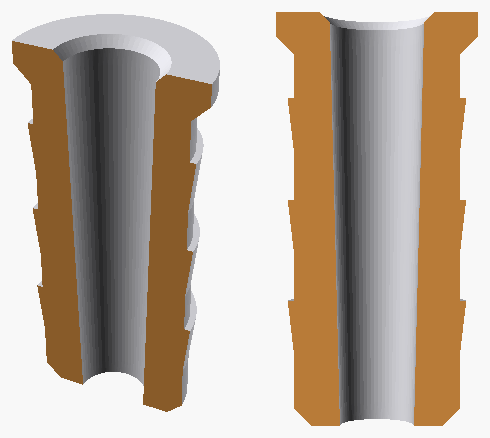
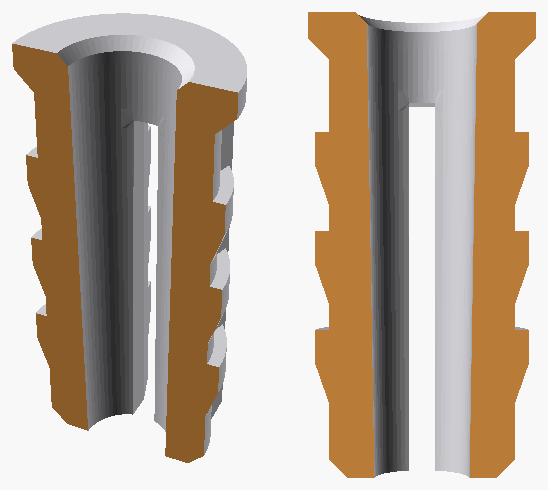
Описать состав проекта таблицей инструментов
Вводный абзац о том, что forgeAi3d — сборка чужих проектов, связанных
в один цикл для агента. Вместо абзаца «Стек» — таблица со всеми
инструментами, ссылками на GitHub и ролью каждого. Текст про дюбель
и его разрез приведены к переработанной модели.

diff --git a/README.ru.md b/README.ru.md
@@ -4,6 +4,12 @@
 
 Воркспейс для моделирования деталей под 3D-печать **вместе с AI-агентом**.
 
+Своего CAD здесь нет. forgeAi3d — сборка чужих проектов: CAD-ядро, справочник крепежа,
+анализатор печатопригодности, рендерер, библиотеки для работы с мешами. Они связаны
+в один цикл и обёрнуты в CLI так, чтобы агент вызывал их сам, читал вывод и делал по
+нему следующий шаг: обмерить деталь, посмотреть на превью, поправить константу. Знание
+о том, что и когда вызывать, лежит в скилле — полный состав в таблице ниже.
+
 Идея простая: модель — это Python-файл, а не проект в GUI. Значит агент видит её целиком,
 правит точечно и версионирует. Ты говоришь, что нужно, — получаешь STL, превью и отчёт
 о печатопригодности. Печатаешь, говоришь что не так — правится одна константа.
@@ -16,12 +22,26 @@
 
 ![контактный лист калибровочной гребёнки](docs/fit_test.png)
 
-Стек: [build123d](https://github.com/gumyr/build123d) (B-Rep поверх OCCT — настоящие фаски,
-скругления и STEP), [augura](https://github.com/pzfreo/augura) (печатопригодность по точной
-геометрии, а не по треугольникам), [bd_warehouse](https://github.com/gumyr/bd_warehouse)
-(винты, гайки, подшипники, резьбы по стандарту), [trimesh](https://github.com/mikedh/trimesh)
-(анализ и правка чужих мешей), [OpenSCAD](https://openscad.org) в headless-режиме
-(рендер превью, чтобы агент видел результат своими глазами).
+## Из чего собрано
+
+Свой код здесь тонкий: профиль принтера и справочник филаментов (`forge/`), четыре
+CLI-обёртки (`tools/`) и скилл. Всю тяжёлую работу делают вот эти проекты.
+
+| Инструмент | Зачем здесь |
+|---|---|
+| [build123d](https://github.com/gumyr/build123d) | CAD-ядро. Деталь описывается кодом на Python, геометрия — B-Rep поверх OpenCascade: настоящие фаски, скругления и экспорт в STEP |
+| [OCP](https://github.com/CadQuery/OCP) | Python-биндинги [OpenCascade](https://github.com/Open-Cascade-SAS/OCCT), ядро под build123d. `measure.py` обращается к нему напрямую — читает типы поверхностей и по ним отличает отверстие от штыря и скругления |
+| [bd_warehouse](https://github.com/gumyr/bd_warehouse) | Готовый крепёж к build123d: винты, гайки, подшипники, резьбы по стандарту. Чтобы размеры M3 не сочинялись по памяти |
+| [augura](https://github.com/pzfreo/augura) | Проверка печатопригодности по STEP — свесы, мосты, толщина стенок, опрокидывание, подбор позы. По точным граням тела, а не по треугольникам |
+| [trimesh](https://github.com/mikedh/trimesh) | Всё, что про меши: загрузка STL, герметичность, нормали, лучевые запросы (толщина, внутренние пустоты), правка чужих моделей |
+| [manifold3d](https://github.com/elalish/manifold) | Бэкенд булевых операций для trimesh — без него вычитания и объединения на мешах разваливаются |
+| [rtree](https://github.com/Toblerity/rtree) | Пространственный индекс, на нём держатся быстрые лучевые запросы trimesh |
+| [numpy](https://github.com/numpy/numpy) | Массивы вершин и нормалей, вся геометрическая арифметика в проверках и подсветке свесов |
+| [networkx](https://github.com/networkx/networkx) | Граф связности треугольников в `solidify.py`: так находятся внутренние оболочки и кромки, которые потом заклеиваются |
+| [Pillow](https://github.com/python-pillow/Pillow) | Обрезка полей у рендеров и сборка видов в один контактный лист |
+| [OpenSCAD](https://github.com/openscad/openscad) | Headless-рендер PNG и булев разрез детали. Единственная внешняя программа — остальное пакеты Python |
+| [uv](https://github.com/astral-sh/uv) | Зависимости и запуск: `uv run` вместо ручных venv |
+| [Claude Code](https://github.com/anthropics/claude-code) | Собственно агент. Скилл из `skill/` учит его этому циклу — что вызвать, как прочитать вывод и что править дальше |
 
 ## Зачем, если есть GUI-редакторы
 
@@ -81,9 +101,17 @@ uv run tools/check.py prints/fit_test_pla/fit_test_pla.stl --material PLA   # п
 
 ![дюбель в разрезе](docs/dowel.png)
 
+Дальше начался тот самый цикл. Первая версия в отверстии провернулась: кольцевые зубцы
+держат от выдёргивания, но против кручения осесимметричному телу цепляться нечем — шуруп
+таскал дюбель за собой вместо того, чтобы вкручиваться. Из одной фразы «прокручивается»
+получилась переделка: сквозная прорезь вдоль тела (половинки расходятся и распирают
+дюбель в отверстии), четыре продольных ребра против проворота и пилотное отверстие шире
+на 0.3 мм — чтобы шуруп нарезал резьбу, а не срывал деталь с места.
+
 Модель — `models/dowel_5mm.py`, и всё в ней крутится константами: `BARB_OVER` — насколько
-зубцы выступают за тело, `PILOT_TOP` и `PILOT_BOT` — внутренний конус, по которому шуруп
-идёт всё туже, `SLOT` — включить сквозную прорезь. Напечатан на A1 mini.
+зубцы выступают за тело, `RIB_COUNT` и `RIB_OVER` — число и вылет рёбер, `PILOT_TOP`
+и `PILOT_BOT` — внутренний конус, по которому шуруп идёт всё туже, `SLOT_W` и `SLOT_ANG` —
+ширина и раскрытие прорези. Печатается стоя на A1 mini.
 
 ### Клинок из игрушки — заполнена чужая модель
 

diff --git a/README.md b/README.md
@@ -4,6 +4,13 @@
 
 A workspace for designing 3D-printable parts **together with an AI agent**.
 
+I did not write a CAD engine. forgeAi3d is an assembly of other people's
+projects — a CAD kernel, a fastener library, a printability analyser, a renderer, mesh
+tooling — wired into a single loop and wrapped in CLIs so the agent can call them itself,
+read the output and take the next step from it: measure the part, look at the preview,
+change one constant. What to call and when lives in the skill; the full list is in the
+table below.
+
 > The tools and the Claude Code skill speak Russian — that is what the output samples
 > below look like. The code, the CLI flags and this file are in English; translating the
 > messages is a small, self-contained change if you need it.
@@ -21,13 +28,27 @@ what you need → models/part.py → prints/part/part.stl → print
 
 ![contact sheet of the clearance comb](docs/fit_test.png)
 
-Stack: [build123d](https://github.com/gumyr/build123d) (B-Rep on OCCT — real fillets,
-chamfers and STEP), [augura](https://github.com/pzfreo/augura) (printability from exact
-geometry rather than triangles), [bd_warehouse](https://github.com/gumyr/bd_warehouse)
-(screws, nuts, bearings and threads to standard),
-[trimesh](https://github.com/mikedh/trimesh) (inspecting and repairing other people's
-meshes), [OpenSCAD](https://openscad.org) headless (rendering previews so the agent can
-look at the result with its own eyes).
+## What it is made of
+
+Little of this is my own code: a printer profile and a filament reference (`forge/`),
+four CLI wrappers (`tools/`) and the skill. The heavy lifting is done by the projects
+below.
+
+| Tool | What it does here |
+|---|---|
+| [build123d](https://github.com/gumyr/build123d) | The CAD kernel. A part is described in Python and the geometry is B-Rep on OpenCascade: real fillets, chamfers and STEP export |
+| [OCP](https://github.com/CadQuery/OCP) | Python bindings for [OpenCascade](https://github.com/Open-Cascade-SAS/OCCT), the kernel under build123d. `measure.py` talks to it directly — it reads surface types and tells a hole from a boss or a fillet by them |
+| [bd_warehouse](https://github.com/gumyr/bd_warehouse) | Off-the-shelf fasteners for build123d: screws, nuts, bearings and threads to standard, so M3 dimensions are never recalled from memory |
+| [augura](https://github.com/pzfreo/augura) | Printability checks off the STEP — overhangs, bridges, wall thickness, tipping, orientation search. From the exact faces of the solid rather than from triangles |
+| [trimesh](https://github.com/mikedh/trimesh) | Everything mesh-side: loading STL, watertightness, normals, ray queries (thickness, internal voids), repairing other people's models |
+| [manifold3d](https://github.com/elalish/manifold) | The boolean backend for trimesh — without it mesh differences and unions fall apart |
+| [rtree](https://github.com/Toblerity/rtree) | The spatial index trimesh's ray queries rely on |
+| [numpy](https://github.com/numpy/numpy) | Vertex and normal arrays, all the geometric arithmetic in the checks and in the overhang highlighting |
+| [networkx](https://github.com/networkx/networkx) | The face-adjacency graph in `solidify.py`: this is how inner shells and the rims to be capped are found |
+| [Pillow](https://github.com/python-pillow/Pillow) | Trimming the margins of renders and stitching the views into one contact sheet |
+| [OpenSCAD](https://github.com/openscad/openscad) | Headless PNG rendering and the boolean section cut. The only external program — everything else is a Python package |
+| [uv](https://github.com/astral-sh/uv) | Dependencies and running: `uv run` instead of hand-managed venvs |
+| [Claude Code](https://github.com/anthropics/claude-code) | The agent itself. The skill in `skill/` teaches it the loop — what to call, how to read the output and what to edit next |
 
 ## Why not a GUI editor with MCP
 
@@ -89,9 +110,17 @@ printed legs snap along the layers; a 6 mm collar so it hides under the screw's 
 
 ![the plug in section](docs/dowel.png)
 
+Then came the loop this is all for. The first version spun in the hole: ring barbs hold
+against pull-out, but an axisymmetric body has nothing to bite with against torque, so the
+screw dragged the plug along instead of threading into it. One sentence — "it spins" — and
+the model was reworked: a through slit along the body (the halves spread apart and wedge
+the plug into the hole), four longitudinal ribs against rotation, and a pilot hole 0.3 mm
+wider, so the screw cuts a thread rather than tearing the part loose.
+
 The model is `models/dowel_5mm.py`, and everything in it turns on constants: `BARB_OVER`
-for how far the barbs stand out, `PILOT_TOP` and `PILOT_BOT` for the inner cone that makes
-the screw bite harder as it goes, `SLOT` to cut a through slit. Printed on an A1 mini.
+for how far the barbs stand out, `RIB_COUNT` and `RIB_OVER` for the ribs, `PILOT_TOP` and
+`PILOT_BOT` for the inner cone that makes the screw bite harder as it goes, `SLOT_W` and
+`SLOT_ANG` for the slit. Printed standing up on an A1 mini.
 
 ### A toy katana blade — someone else's model, filled
 
